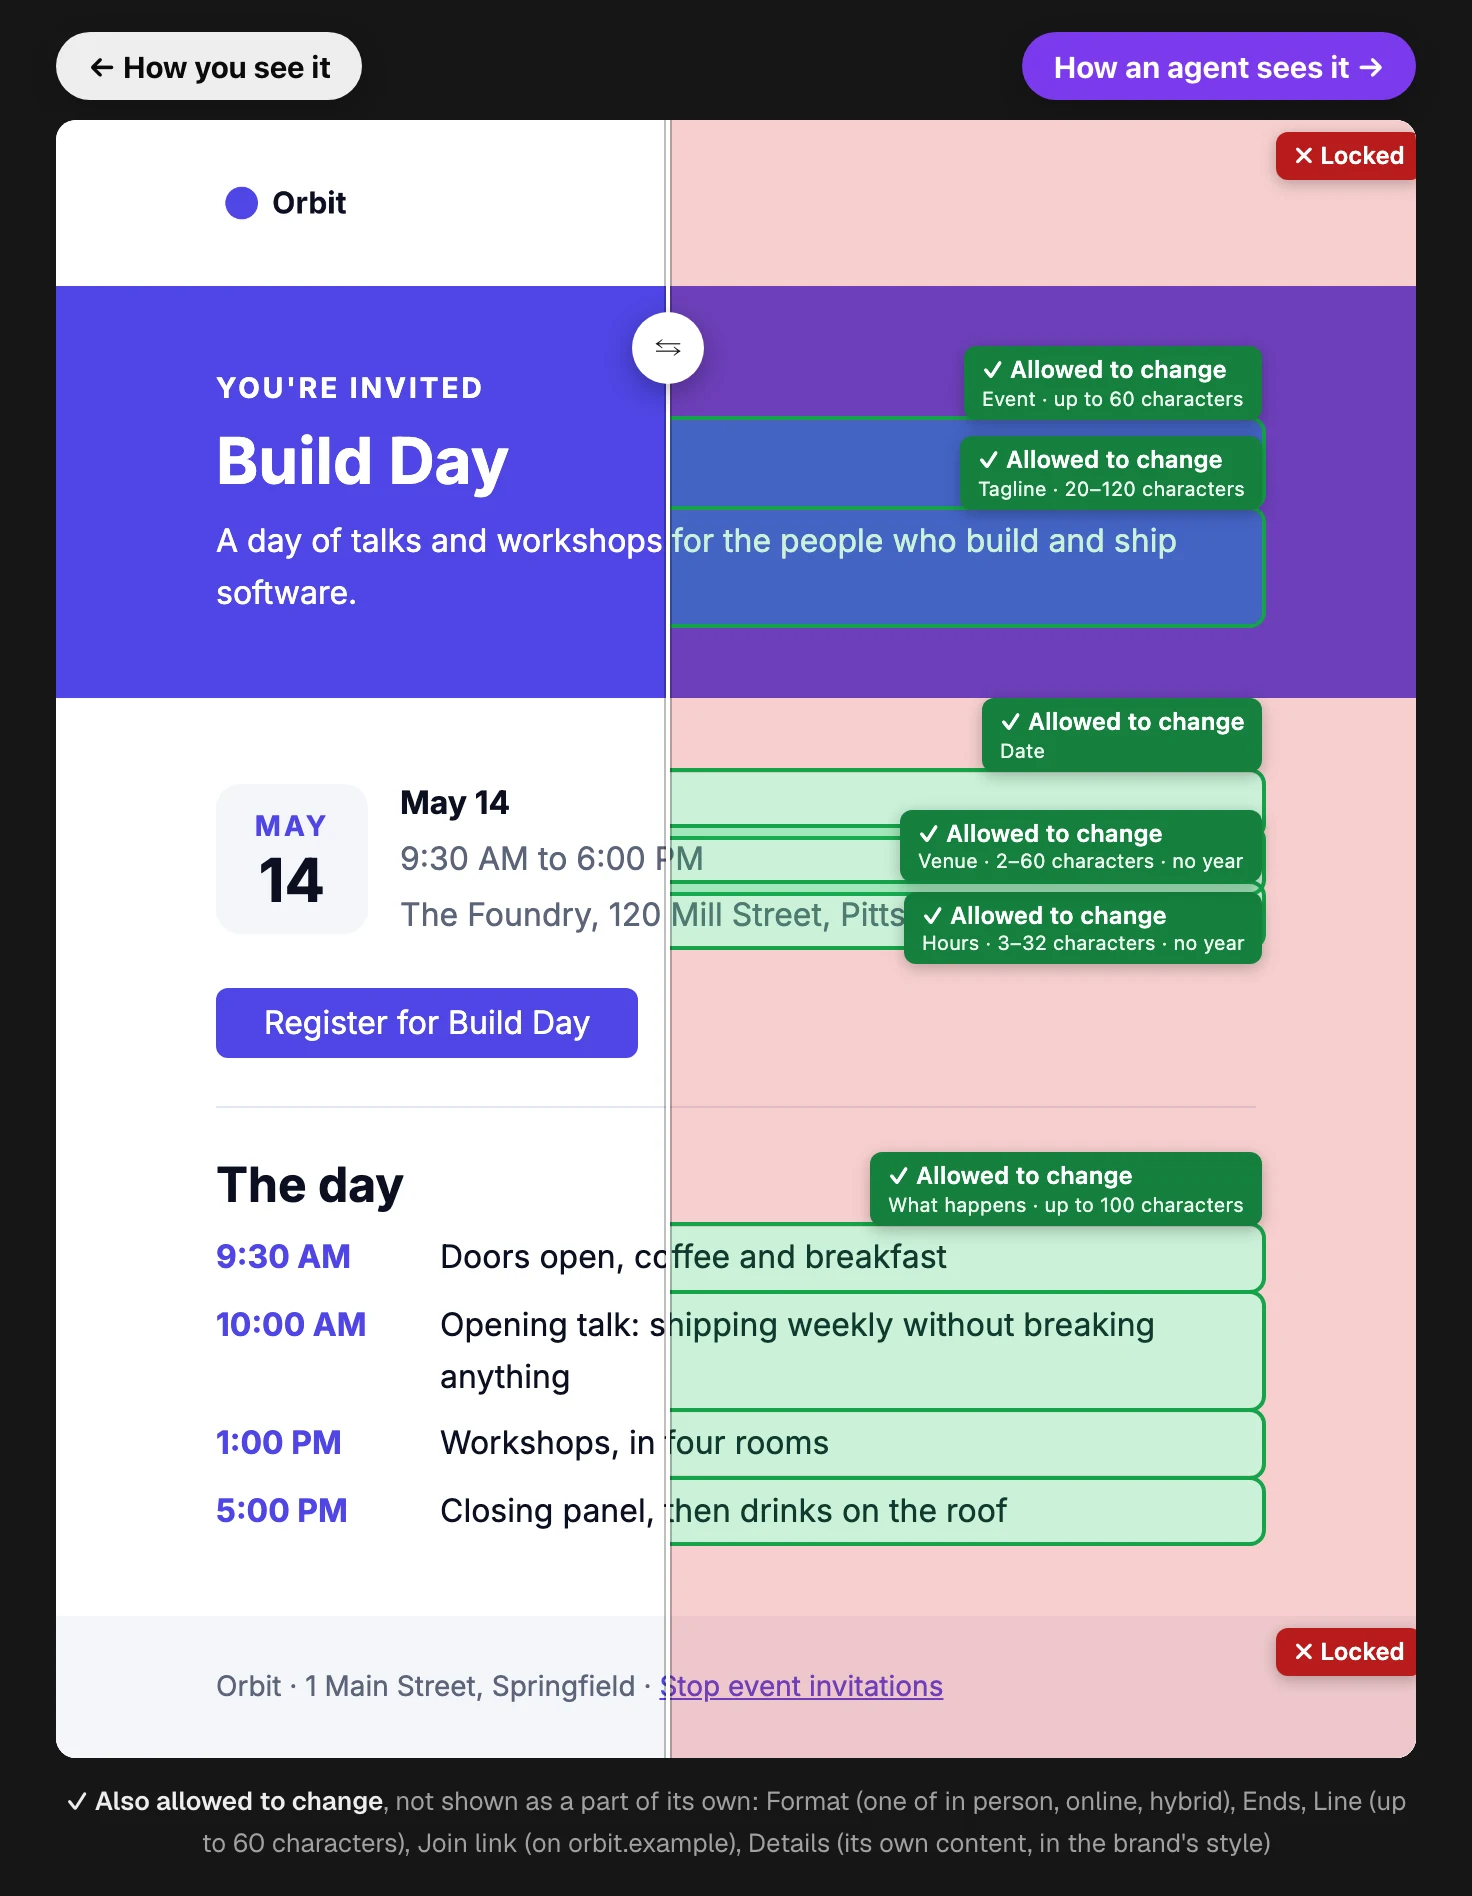
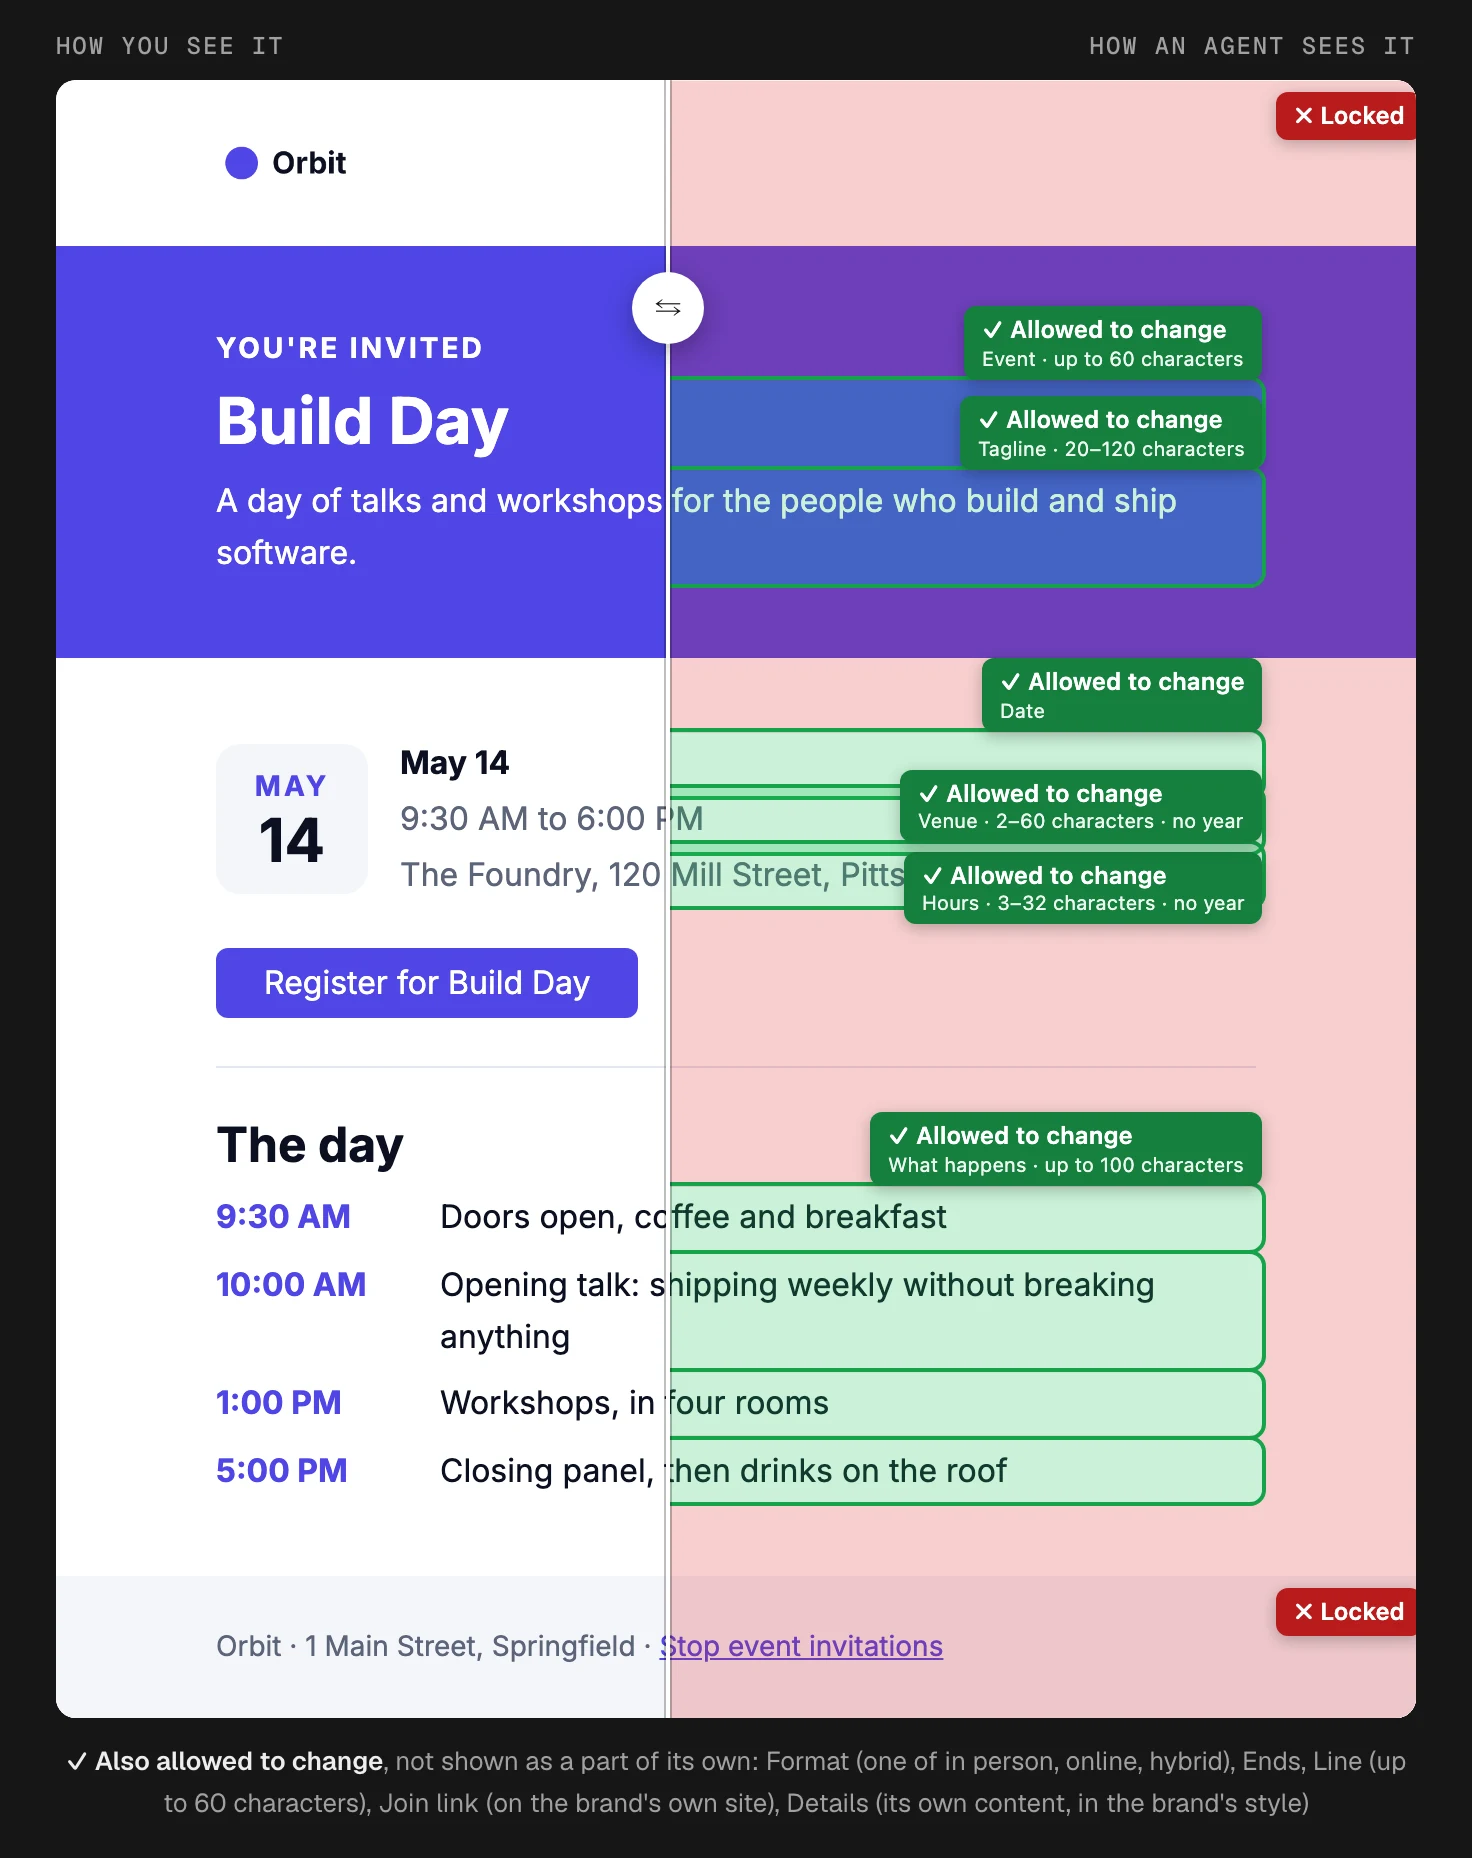
Website: the agent view's two labels are captions, not pills (#335)
"How you see it" and "How an agent sees it" above a template's agent view were filled pills with a shadow and an arrow, which read as buttons. They're now small uppercase captions in the muted text color, so only the divider looks like something to use.

The screenshot in the templates docs is retaken with them, at the same framing; it's 19px shorter, so its height in templates.md changes with it.

diff --git a/apps/website/src/scripts/agent-view.ts b/apps/website/src/scripts/agent-view.ts
@@ -38,11 +38,9 @@ const css = `
 .av-divider::before { content: ""; position: absolute; top: 0; bottom: 0; left: 11px; width: 2px; background: #fff; box-shadow: 0 0 0 1px rgba(0,0,0,.25); }
 .av-handle { position: absolute; top: 96px; left: -6px; width: 36px; height: 36px; border-radius: 50%; background: #fff; color: #111; display: grid; place-items: center; font: 700 15px system-ui, sans-serif; box-shadow: 0 4px 14px rgba(0,0,0,.3); user-select: none; }
 .av-heads { display: flex; flex-wrap: wrap; justify-content: space-between; align-items: flex-end; gap: 8px 12px; margin: 0 auto 10px; max-width: 100%; }
-.av-heads span { padding: 8px 16px; border-radius: 999px; font: 700 15px/1.2 system-ui, sans-serif; letter-spacing: -0.01em; box-shadow: 0 4px 14px rgba(0,0,0,.18); white-space: nowrap; }
+.av-heads span { font: 500 12px/1.2 var(--mono, ui-monospace, monospace); letter-spacing: 0.08em; text-transform: uppercase; color: var(--text-2, #525252); white-space: nowrap; }
 .av-heads .agent { margin-left: auto; }
-@media (max-width: 520px) { .av-heads span { padding: 6px 10px; font-size: 12.5px; } .av-heads { gap: 6px 8px; } }
-.av-heads .you { background: var(--text, #111); color: var(--bg, #fff); }
-.av-heads .agent { background: #7c3aed; color: #fff; }
+@media (max-width: 520px) { .av-heads span { font-size: 10.5px; letter-spacing: 0.06em; } .av-heads { gap: 6px 8px; } }
 .av-also { font-size: 13px; color: var(--text-2); margin: 12px auto 0; max-width: 680px; text-align: center; }
 .av-also b { color: var(--text); font-weight: 600; }
 `;
@@ -196,10 +194,11 @@ export function mountAgentView(host: HTMLElement, options: AgentViewOptions): ()
   divider.tabIndex = 0;
   stage.append(scale, divider);
   scale.append(you, agent);
-  // Above the preview, at its two edges: which side is which.
+  // Above the preview, at its two edges: which side is which. Captions, with nothing of a button about them (no fill,
+  // no shadow, no arrow): only the divider is there to use.
   const heads = document.createElement("div");
   heads.className = "av-heads";
-  heads.innerHTML = `<span class="you">← How you see it</span><span class="agent">How an agent sees it →</span>`;
+  heads.innerHTML = `<span class="you">How you see it</span><span class="agent">How an agent sees it</span>`;
   const also = unbound(options);
   const note = document.createElement("p");
   note.className = "av-also";

diff --git a/apps/website/src/content/docs/templates.md b/apps/website/src/content/docs/templates.md
@@ -46,7 +46,7 @@ venue and the hours (no year), and the day's schedule (up to eight rows, or none
 Red is locked: the logo, the layout and the footer.
 
 <div class="output-gallery single">
-<figure><a href="/img/templates/agent-view.webp" title="Open the event invitation as you see it and as an agent sees it at full size"><img src="/img/templates/agent-view.webp" width="736" height="948" loading="lazy" alt="An event invitation split by a divider. The left part is the email as you see it. The right part is the same email as an agent sees it: the event name, tagline, date, venue, hours and each schedule line in green, each labeled Allowed to change with its limits, and the header and footer in red, labeled Locked."></a><figcaption>The event invitation template, as you see it and as an agent sees it</figcaption></figure>
+<figure><a href="/img/templates/agent-view.webp" title="Open the event invitation as you see it and as an agent sees it at full size"><img src="/img/templates/agent-view.webp" width="736" height="929" loading="lazy" alt="An event invitation split by a divider. The left part is the email as you see it. The right part is the same email as an agent sees it: the event name, tagline, date, venue, hours and each schedule line in green, each labeled Allowed to change with its limits, and the header and footer in red, labeled Locked."></a><figcaption>The event invitation template, as you see it and as an agent sees it</figcaption></figure>
 </div>
 
 Every template in the [template gallery](/templates) opens with this view: emails, pages, PDFs and images. Drag the divider to compare
